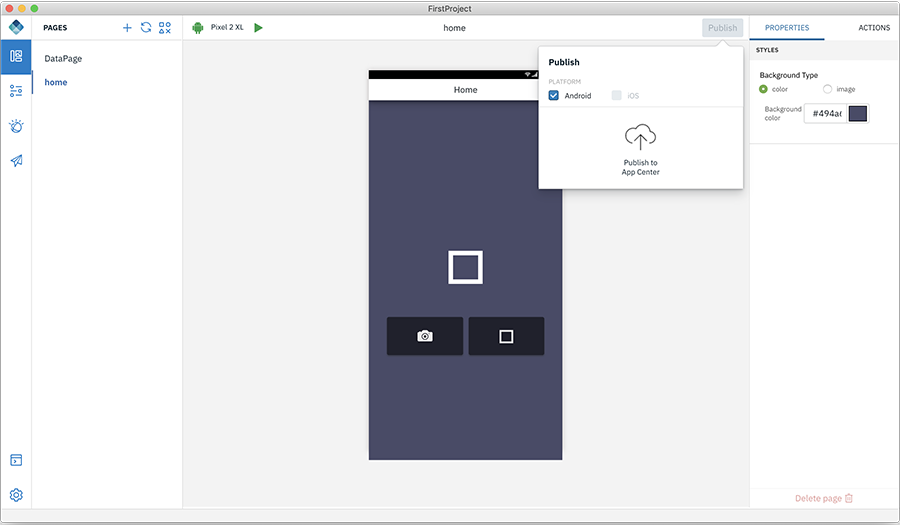
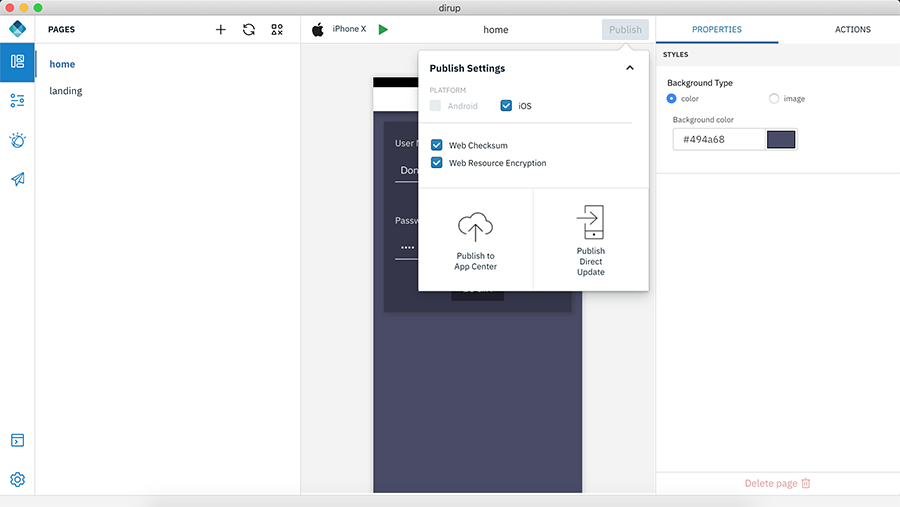
Publish Direct Update

Changed region(s): [[0.0, 0.0, 1.0, 1.0], [0.0, 0.858, 0.0311, 0.8876]]

diff --git a/tutorials/en/foundation/8.0/digital-app-builder/how-to-publish/index.md b/tutorials/en/foundation/8.0/digital-app-builder/how-to-publish/index.md
@@ -6,8 +6,13 @@ show_children: true
 ---
 <!-- NLS_CHARSET=UTF-8 -->
 
-## Publishing an app to App Center
+## Publishing an app
 {: #dab-app-publish }
+
+With the Publish option, you can build and publish your app for Android/iOS to App Center or Publish Direct Updates of your app “over-the-air” with refreshed web resources.
+
+### Publishing an app to App Center
+{: #dab-app-publish-to-app-center }
 
 IBM MobileFirst Foundation Application Center is a repository of mobile applications similar to public app stores but focused on the needs of an organization or a team. It is a private app store. For more information about App Center, refer [here](http://mobilefirstplatform.ibmcloud.com/tutorials/en/foundation/8.0/appcenter/app-center-tutorial/).
 
@@ -18,6 +23,12 @@ You can add your app to the repository on the server by using the **Publish** fu
 1. From your app project, click **Publish**. This will open up a popup with the platforms selected.
 
     ![Publish](dab-publish.png)
+
+2. Select the **Platform** for which your app need to be published.
+
+3. Click **Web Checksum** to enable the web resources checksum feature. For more details refer to [Enabling the web resources checksum feature](https://mobilefirstplatform.ibmcloud.com/tutorials/en/foundation/8.0/application-development/cordova-apps/securing-apps/#enabling-the-web-resources-checksum-feature).
+
+4. Click **Web Resource Encryption** to encrypt the web resources of your Cordova packages. For more details refer to [Encrypting the web resources of your Cordova packages](https://mobilefirstplatform.ibmcloud.com/tutorials/en/foundation/8.0/application-development/cordova-apps/securing-apps/#encrypting-the-web-resources-of-your-cordova-packages).
 
 2. Click **Publish to App Center**.
 
@@ -38,3 +49,20 @@ You can add your app to the repository on the server by using the **Publish** fu
 
 >**Note**: You can reselect the platform required and build and publish the app to **App Center**.
 
+### Publish Direct Update
+{: #dab-publish-direct-update }
+
+With [Direct Update](https://mobilefirstplatform.ibmcloud.com/tutorials/en/foundation/8.0/application-development/direct-update/), Cordova applications can be updated “over-the-air” with refreshed web resources, such as changed, fixed or new applicative logic (JavaScript), HTML, CSS or images. Organizations are thus able to ensure that end-users always use the latest version of the application.
+
+>**Note**: Make sure your app is built without any error before publishing to app center.
+
+1. From your app project, click **Publish**. This will open up a popup with the platforms selected.
+
+    ![Publish](dab-publish.png)
+
+2. Select the **Platform** for which your app need to be published.
+
+3. Click **Web Checksum** to enable the web resources checksum feature. For more details refer to [Enabling the web resources checksum feature](https://mobilefirstplatform.ibmcloud.com/tutorials/en/foundation/8.0/application-development/cordova-apps/securing-apps/#enabling-the-web-resources-checksum-feature).
+
+4. Click **Web Resource Encryption** to encrypt the web resources of your Cordova packages. For more details refer to [Encrypting the web resources of your Cordova packages](https://mobilefirstplatform.ibmcloud.com/tutorials/en/foundation/8.0/application-development/cordova-apps/securing-apps/#encrypting-the-web-resources-of-your-cordova-packages).
+5. Click **Publish Direct Update**. When users launch the app and connect to the mobile foundation server, a prompt to update the web resources will appear. Upon confirmation, the updated web resources will be available to the user.

diff --git a/tutorials/en/foundation/8.0/digital-app-builder/dab-interface/index.md b/tutorials/en/foundation/8.0/digital-app-builder/dab-interface/index.md
@@ -76,7 +76,7 @@ Workbench helps you to design the pages. Workbench consists of three work areas:
     * **Channel** icon - This displays the current channel selected. You can add additional channels by selecting the required channels in the Platforms section under **Settings > App > App details**.
     * Current Page Name - Displays the canvas page name. When switched between pages, the current page name gets updated to the selected page.
     * **Build/Preview the app** - This button has two options: a. helps to preview the app that you are developing; b. build the app.
-    * **Publish App** - This option helps you to build and publish your app for Android/iOS to App Center.
+    * **Publish** - This option helps you to build and publish your app for Android/iOS to App Center or Publish Direct Updates of your app “over-the-air” with refreshed web resources.
     * **Canvas** - At the centre of this section is the canvas which displays either the design or the code. You can drag-and-drop the controls and create the app.
 
 3. **Properties/Actions** tab - At the right-hand side is the properties and action tab. When a control is placed in the canvas, you can edit and modify the properties of the control and connect a control with a related action to perform.
